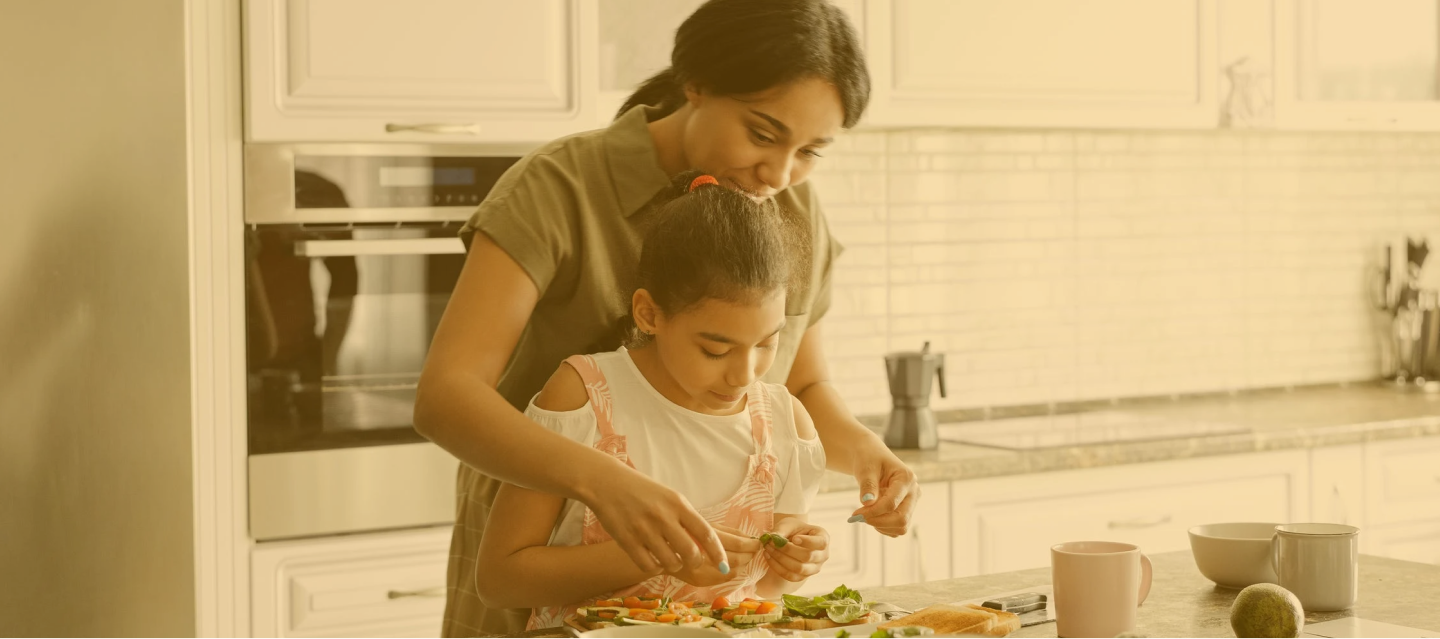
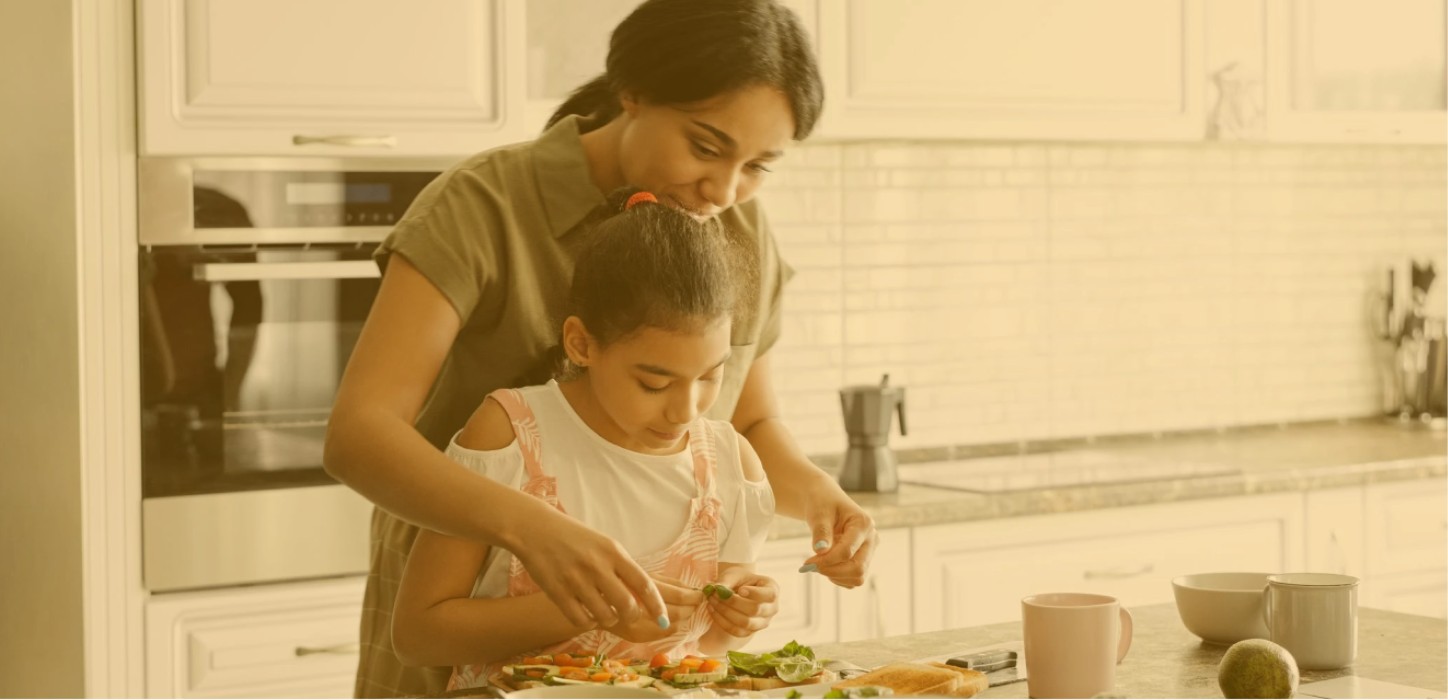
Adicionando slide na home screen

diff --git a/index.html b/index.html
@@ -10,8 +10,8 @@
     <link href="https://fonts.googleapis.com/css2?family=Montserrat:wght@200;300;400;500;600;700;800&display=swap"
         rel="stylesheet">
     <link rel="stylesheet" href="./src/Styles/index.css">
-    <link rel="stylesheet" href="./assets/images/receitas-com-afeto.png">
-        <link rel="stylesheet" href="./src/Styles/global.css">
+    <link rel="stylesheet" href="./assets/images/slide-um.png">
+    <link rel="stylesheet" href="./src/Styles/global.css">
     <link rel="stylesheet" href="./src/Styles/components/header.css">
     <link rel="stylesheet" href="./src/Styles/components/footer.css">
     <link rel="shortcut icon" href="./assets/images/icon-omma-cook.png" type="image/x-icon">
@@ -31,10 +31,51 @@
         </nav>
     </header>
 
-    <section id="receitas-com-afeto" class="generic-section">
-        <h1>Receitas Com Afeto</h1>
+    <div class="slider">
+        <div class="slides">
+            <input type="radio" name="radio-btn" id="radio1">
+            <input type="radio" name="radio-btn" id="radio2">
+            <input type="radio" name="radio-btn" id="radio3">
+            <input type="radio" name="radio-btn" id="radio4">
 
-    </section>
+            <div class="slide first">
+                <img src="assets/images/slide-um.png" alt="imagem 1, mãe e finlha cozinhando juntas">
+            </div>
+            <div id="sub-titulo">
+                <h1>Receitas Com Afeto</h1>
+            </div>
+
+            <div class="slide">
+                <img src="assets/images/slide-dois.png" alt="imagem 2, camarões">
+
+            </div>
+
+            <div class="slide">
+                <img src="assets/images/slide-tres.png" alt="imagem 3, tortilha">
+
+            </div>
+
+            <div class="slide">
+                <img src="assets/images/slide-quatro.png" alt="imagem 4, mesa farta">
+            </div>
+
+            <div class="navigation-auto">
+                <div class="auto-btn1"></div>
+                <div class="auto-btn2"></div>
+                <div class="auto-btn3"></div>
+                <div class="auto-btn4"></div>
+            </div>
+
+
+        </div>
+
+        <div class="manual-navigation">
+            <label for="radio1" class="manual-btn"></label>
+            <label for="radio2" class="manual-btn"></label>
+            <label for="radio3" class="manual-btn"></label>
+            <label for="radio4" class="manual-btn"></label>
+        </div>
+    </div>           
 
     <section id="" class="generic-section">
         <h2 id="tituto-receitas-da-semana">Receitas Da Semana</h2>
@@ -71,7 +112,7 @@
             Todas as receitas terá a lista de ingrediente indicando tudo que você precisa, além disso, terá as intruções
             de preparo.
         </p>
-        
+
     </section>
     <section>
         <footer>
@@ -79,6 +120,7 @@
             <span>© 2022 omma - Todos os direitos são de vocês</span>
         </footer>
     </section>
+    <Script src="script.js"></Script>     
 </body>
 
 </html>

diff --git a/src/Styles/index.css b/src/Styles/index.css
@@ -1,22 +1,133 @@
 .generic-section {
     width: 100vw;
-    height: 100vh;
+    height: 70vh;
 }
 
-#receitas-com-afeto{
-    background-image: url('../../assets/images/receitas-com-afeto.png');
+/* #receitas-com-afeto{
+    background-image: url('../../assets/images/slide-um.png');
     background-repeat: no-repeat;
-    position: relative;    
+    position: relative; 
+    width: 1600px;
+    height: 600px;
+    border: solid;
+ 
+} */
+
+.slider{
+    margin: 0 auto;
+    width: 1600px;
+    height: 600px;
+    overflow: hidden;
+    margin-top: 20px;
+    margin-bottom: 30px;
+    box-shadow: 5px 5px 20px 2px rgba(0, 0, 0, 0.40);
+    border-radius: 16px;
 }
+
+.slides{
+    width: 1600px;
+    height: 620px;
+    display: flex;
+}
+
+.slides input{
+    display: none;
+}
+
+.slide{
+    width: 100%;
+    position: relative;
+}
+
+.manual-navigation{
+    position: absolute;
+    width: 1600px;
+    margin-top: -100px;
+    display: flex;
+    justify-content: center;
+}
+
+.manual-btn{
+    border: 2px solid #ffff;
+    padding: 5px;
+    border-radius: 10px;
+    cursor: pointer;
+    transition: 0.2s;
+}
+
+.manual-btn:not(:last-child){
+    margin-right: 30px;
+}
+
+.manual-btn:hover{
+    background-color: #ffff;   
+}
+
+#radio1:checked ~ .first{
+    margin-left: 0; 
+    transition: 1s;
+}
+
+#radio2:checked ~ .first{
+    margin-left: -100%; 
+    transition: 1s;
+}
+
+#radio3:checked ~ .first{
+    margin-left: -200%; 
+    transition: 1s;
+}
+
+#radio4:checked ~ .first{
+    margin-left: -300%; 
+    transition: 1s;
+}
+
+.navigation-auto div{
+    border: 2px solid #ffc107;
+    padding: 5px;
+    border-radius: 10px;
+    cursor: pointer;
+    transition: 0.2s;
+}
+
+.navigation-auto{ 
+    position: absolute;
+    width: 1600px;
+    margin-top: 520px;
+    display: flex;
+    justify-content: center;
+}
+
+.navigation-auto div:not(:last-child){
+    margin-right: 30px;
+}
+
+#radio1:checked ~ .navigation-auto .auto-btn1{
+    background-color: #ffff;
+} 
+#radio2:checked ~ .navigation-auto .auto-btn2{
+    background-color: #ffff;
+} 
+#radio3:checked ~ .navigation-auto .auto-btn3{
+    background-color: #ffff;
+} 
+#radio4:checked ~ .navigation-auto .auto-btn4{
+    background-color: #ffff;
+} 
+
+
+
+
 
 h1{
     font-size:var(--font-size-larger);
-    color: #ffff;
+    color: #ffc107;
     width: 400px;
     position: absolute;
-    top: 16%;
+    top: 40%;
     left: 66%;     
-    text-shadow: 0px 4px 4px rgba(0, 0, 0, 0.36);     
+    text-shadow: 0px 4px 4px rgba(0, 0, 0, 0.40);     
 }
 
 #card-horizontal{

diff --git a/script.js b/script.js
@@ -1,0 +1,15 @@
+let count = 1;
+document.getElementById("radio1").Checked = true;
+
+setInterval( function(){
+nextImage();
+}, 2000)
+
+function nextImage(){
+    count++;
+    if(count>4){
+       count = 1;
+    }
+
+    document.getElementById("radio"+count).Checked = true;
+}
